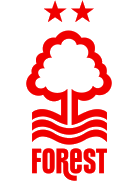
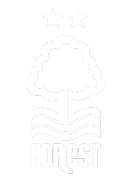
new badges ux, slash commands update

Changed region(s): [[0.1832, 0.1657, 0.8244, 1.0], [0.5191, 0.0, 0.6718, 0.1381], [0.3053, 0.0, 0.4885, 0.1381]]

diff --git a/components/Chat.tsx b/components/Chat.tsx
@@ -1,9 +1,10 @@
 /* REACT */
-import { useEffect, useRef, useState } from 'react';
+import { SetStateAction, useEffect, useRef, useState } from 'react';
 import QRCode from "react-qr-code";
 import { useRouter } from 'next/router';
 import Image from "next/image";
 import Link from "next/link";
+import TeamsModal from './TeamLogos';
 
 /* HOOKS */
 import { useFetchUserDetails } from "./useFetchUserDetails";
@@ -43,7 +44,7 @@ const IMGAGE_WIDTH = 20;
 
 /* ICONS */
 import { FontAwesomeIcon } from '@fortawesome/react-fontawesome';
-import { faCircleUser, faBuilding, faArrowAltCircleUp } from '@fortawesome/free-regular-svg-icons';
+import { faCircleUser, faBuilding, faArrowAltCircleUp, faIdBadge } from '@fortawesome/free-regular-svg-icons';
 
 /* TEAM LOGOS */
 import validTeamLogos from '../public/validTeams.json';
@@ -121,13 +122,27 @@ const SocialMediaFeed = () => {
   const [casterFID, setCasterFID] = useState<number>(FarcasterAppFID);
   const { userResult: casterBio, loading1: loadingBio } = useFetchUserDetails(casterFID, FarcasterHub, UserDataType.BIO);
   const { userResult: casterFname, loading1: loadingFname } = useFetchUserDetails(casterFID, FarcasterHub, UserDataType.FNAME);
-  
+  const [isModalVisible, setIsModalVisible] = useState(false);
+  const [selectedTeam, setSelectedTeam] = useState('');
+
   const openPanel = () => {
     setIsPanelOpen(true);
   };
 
   const closePanel = () => {
     setIsPanelOpen(false);
+  };
+
+  const handleTeamSelect = (teamName: SetStateAction<string>) => {
+    setSelectedTeam(teamName);
+    const d33mRegex = /d33m:[^\s]+/;
+    // Check if d33m:team tag already exists in casterBio
+    if (d33mRegex.test(casterBio.join(' '))) {
+        const updatedBio = casterBio.map(bio => bio.replace(d33mRegex, `d33m:${teamName}`)).join(' ');
+        setNewPost(`/team ${updatedBio}`);    
+    } else {
+        setNewPost(`/team ${casterBio} d33m:${teamName}`);
+    }
   };
 
   scrollRef = useRef(null);
@@ -251,12 +266,11 @@ const SocialMediaFeed = () => {
     if (bioPost.test(newPost)) {
       setNewPost("Updating your Farcaster bio..."); // TODO: change this to a spinner and error msg
       const responseBio = await sendBio(newPost, encryptedSigner!,hubAddress, CLIENT_NAME,);
-      setNewPost(responseBio);
+      setNewPost(responseBio+" d33m:"+selectedTeam);
       setRemainingChars(CastLengthLimit);
       setTimeout(() => {
         setNewPost(""); // Clear the message
       }, 1000); // 1000 milliseconds (1 second) timeout
-    
       return;
     }
     const castBody = newPost;
@@ -354,6 +368,7 @@ const SocialMediaFeed = () => {
       )
       setFilteredCommands(matchedCommands);
       setShowDropdown(matchedCommands.length > 0);
+
     } else {
       setShowDropdown(false);
     }
@@ -394,11 +409,6 @@ const SocialMediaFeed = () => {
 
         case 'ai':
             break;
-
-        case 'team':
-          // TODO: hand case where user types /team, can't edit bio atm
-          //setNewPost(`/${command} ${casterBio.userResult } d33m:liv <- your team`);
-          break;
 
         default:
           // Handle unrecognized commands or provide a default action
@@ -525,31 +535,40 @@ const SocialMediaFeed = () => {
               setNewPost={setNewPost}
               handlePostChange={handlePostChange}
               /> )}
+              {isModalVisible && (
+                  <>
+                  <TeamsModal 
+                  isOpen={isModalVisible} 
+                  onRequestClose={() => setIsModalVisible(false)}
+                  onTeamSelect={handleTeamSelect}
+                />
+                </>
+                )}
               {showDropdown && (
-                <div className="absolute bottom-full left-0 right-0 mt-1 bg-lightPurple text-black shadow-lg z-10" style={{ width: '100%' }}>
-                  {filteredCommands.map(({ command, description }, index) => (
+                <div className="absolute bottom-full left-0 right-0 mt-1 boarder-1 border-limeGreenOpacity bg-purplePanel shadow-lg z-10" style={{ width: '100%' }}>
+                  {filteredCommands.map(({ command, description, botSource }, index) => (
                     <div
                       key={command}
-                      className={`px-4 py-2 hover:bg-deepPink cursor-pointer ${index === filteredCommands.length - 1 ? '' : ''}`
+                      className={`px-4 py-2 hover:bg-darkPurple cursor-pointer ${index === filteredCommands.length - 1 ? '' : ''}`
                       }
                       onClick={() => {
-                        //TODO SWITCH TO SWITCH?
-                        if(command === "team") {
-                          setNewPost(`/${command} ${casterBio } d33m:liv <-[your team]`);
-                          setShowDropdown(false);
-                          textareaRef.current?.focus(); // Set focus back to the textarea
-                        } else if (command === "football") {
+                        if (command === "football") {
                           setNewPost(`/${command}`);
                           setShowDropdown(false);
                           handlePostChange({ target: { value: "/football" } }); // change rooms immediately
-                          } else {
-                            setNewPost(`/${command}`);
-                            setShowDropdown(false);
-                            textareaRef.current?.focus(); // Set focus back to the textarea
-                            }
+                        } else {
+                          setNewPost(`/${command}`);
+                          setShowDropdown(false);
+                          textareaRef.current?.focus(); // Set focus back to the textarea
+                        }
                       }}
-                    >
-                      <strong>{command}</strong> - {description}
+                    > 
+                      <div className="flex items-center">
+                        <span className="text-sm text-lightPurple font-semibold">🤖 /{command} - </span>
+                        <span className="text-sm text-lightPurple font-normal">{description}</span>
+                        <span className="ml-auto text-sm text-lightPurple font-normal">{botSource}</span>
+                      </div>
+
                     </div>
                   ))}
                 </div>
@@ -569,13 +588,8 @@ const SocialMediaFeed = () => {
                     else if (e.key === 'Tab' && showDropdown && filteredCommands.length > 0) {
                       e.preventDefault(); // Prevent losing focus from the textarea
                       const firstCommand = filteredCommands[0].command;
-                      if (firstCommand === "team") {
-                        setNewPost(`/${firstCommand } ${casterBio } d33m:liv <- your team`);
-                        setShowDropdown(false);
-                      } else {
                       setNewPost(`/${firstCommand}`);
-                      setShowDropdown(false);
-                      }
+                      setShowDropdown(false); 
                   }
                 }}
                 style={{ minHeight: '1rem', lineHeight: 'normal' }}> {/* Adjusted min-height and lineHeight */}
@@ -607,6 +621,17 @@ const SocialMediaFeed = () => {
             >
               <FontAwesomeIcon icon={faBuilding}  style={{ color: '#C0B2F0', fontSize: '24px' }} />
               <p className="text-xxs" style={{ color: '#C0B2F0' }}>Lobby</p>
+            </button>
+            <button
+              onClick={() => {
+                setIsModalVisible(true);
+                setShowDropdown(false); // Close the dropdown first
+
+              }}
+              className="flex flex-col items-center" 
+            >
+              <FontAwesomeIcon icon={faIdBadge}  style={{ color: '#C0B2F0', fontSize: '24px' }} />
+              <p className="text-xxs" style={{ color: '#C0B2F0' }}>Badge</p>
             </button>
             <button className="text-md text-lightPurple font-semibold text-medium" onClick={() => copyToClipboardAndShare()}>
               <FontAwesomeIcon icon={faArrowAltCircleUp} style={{ color: '#C0B2F0', fontSize: '24px' }} />

diff --git a/components/TeamLogos.tsx b/components/TeamLogos.tsx
@@ -1,0 +1,54 @@
+import React from 'react';
+import Modal from 'react-modal';
+import validTeamLogos from '../public/validTeams.json';
+
+
+const teamArray = Object.entries(validTeamLogos).map(([key, value]) => ({
+    name: key.toLowerCase(),
+    logo: value
+}));
+    
+
+type TeamsModalProps = {
+    isOpen: boolean;
+    onRequestClose: () => void;
+    onTeamSelect: (teamName: string) => void;
+};
+
+const TeamsModal: React.FC<TeamsModalProps> = ({ isOpen, onRequestClose, onTeamSelect }) => {
+    const handleTeamClick = (teamName: string) => {
+        onTeamSelect(teamName);
+        onRequestClose();
+    };
+
+
+    const rows = Array.from({ length: 5 }); 
+    const columns = Array.from({ length: 4 }); 
+
+    return (
+        <Modal isOpen={isOpen} onRequestClose={onRequestClose}>
+            <div className="flex flex-col items-center bg-deepPink text-white font-semibold text-medium p-2 rounded-lg h-full overflow-y-auto">
+                <table>
+                    <tbody>
+                        {rows.map((_, rowIndex) => (
+                            <tr key={rowIndex}>
+                                {columns.map((_, colIndex) => {
+                                    const teamIndex = rowIndex * 4 + colIndex;
+                                    const team = teamArray[teamIndex];
+                                    return (
+                                        <td key={colIndex} className="cursor-pointer p-2" onClick={() => handleTeamClick(team.name)}>
+                                            <img src={"assets/epl/" + team.logo} alt={team.name}  />
+                                        </td>
+                                    );
+                                })}
+                            </tr>
+                        ))}
+                    </tbody>
+                </table>
+            </div>
+        </Modal>
+    );
+};
+
+
+export default TeamsModal;

diff --git a/components/slashCommands.ts b/components/slashCommands.ts
@@ -1,21 +1,38 @@
 // commands.js or commands.ts
 import { useState } from 'react';
 
-// Define the initial state for commands
+// Define the initial state for commands. TODO Move to a separate file
 const initialCommands = [
-  { command: 'ai', description: 'ask ChatGPT a question, requires your API Key' },
-  { command: 'football', description: 'join channel formerly known as soccer' },
-  { command: 'join', description: 'a room by entering ID or create using any 6 characters' },
-  { command: 'mint', description: 'predict match outcomes, collect points (coming soon)' },
-  { command: 'start', description: 'deploy a prediction game (coming soon)' },
-  { command: 'team', description: 'add EPL team logo using `d33m:liv` in FC bio <- change to your team' },
+  { 
+    command: 'ai', 
+    description: 'ask ChatGPT a question, requires your API Key', 
+    botSource: 'OpenAI'
+  },
+  { 
+    command: 'football', 
+    description: 'join channel formerly known as soccer', 
+    botSource: 'Built-in' 
+  },
+  { 
+    command: 'join', 
+    description: 'a room by entering ID or create using any 6 characters', 
+    botSource: 'Built-in'
+  },
+  { 
+    command: 'mint', 
+    description: 'predict match outcomes, collect points (coming soon)', 
+    botSource: 'Defifa' 
+  },
+  { 
+    command: 'start', 
+    description: 'deploy a prediction game (coming soon)', 
+    botSource: 'Defifa' 
+  },
 ];
+
 
 export const useCommands = () => {
   const [commands, setCommands] = useState(initialCommands);
-  const [filteredCommands, setFilteredCommands] = useState<{ command: string; description: string; }[]>([]);
-
-  // Add any logic or functions related to these states if needed
-
+  const [filteredCommands, setFilteredCommands] = useState<{ command: string; description: string; botSource:string }[]>([]);
   return { commands, setCommands, filteredCommands, setFilteredCommands };
 };
